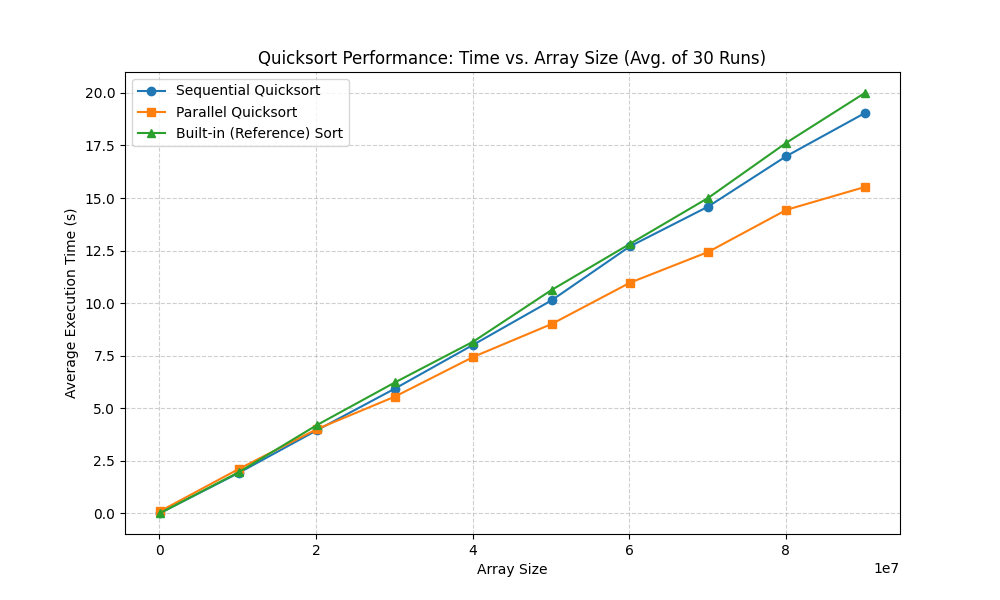
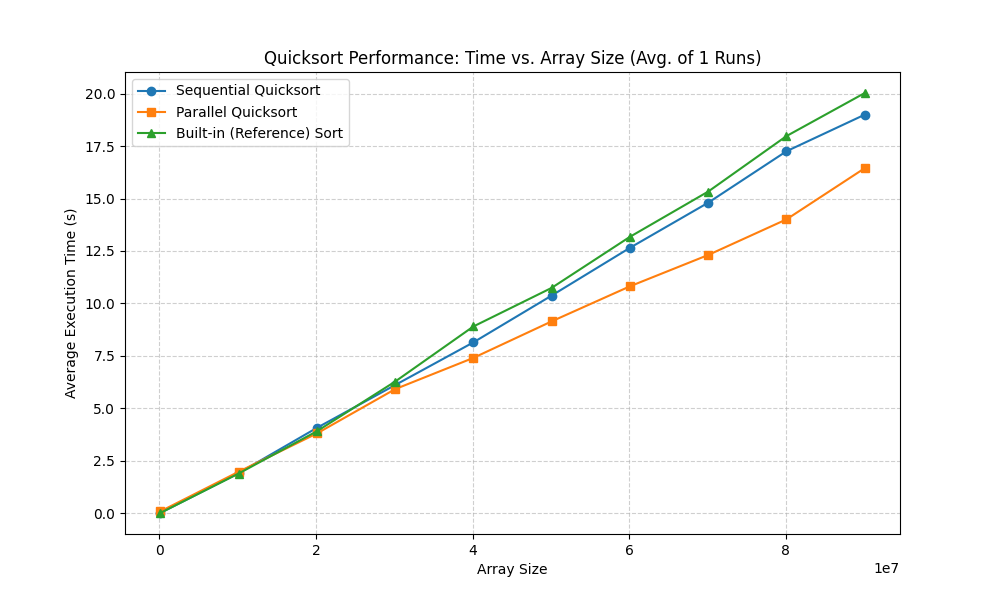
Rerun

diff --git a/M2R-ParallelQuicksort/test/plot.py b/M2R-ParallelQuicksort/test/plot.py
@@ -14,6 +14,7 @@ def plot_results(filename):
         df['size'] = pd.to_numeric(df['size'])
 
         avg_times = df.groupby('size')[['sequential_time', 'parallel_time', 'builtin_time']].mean()
+        NUM_REPETITIONS = df.groupby('size').size().iloc[0]
 
         plt.figure(figsize=(10, 6))
 
@@ -24,12 +25,9 @@ def plot_results(filename):
         plt.plot(array_sizes, avg_times['parallel_time'], 's-', label='Parallel Quicksort')
         plt.plot(array_sizes, avg_times['builtin_time'], '^-', label='Built-in (Reference) Sort')
 
-        # plt.plot(avg_times.index, avg_times['sequential_time'], marker='o', label='Sequential Quicksort')
-        # plt.plot(avg_times.index, avg_times['parallel_time'], marker='s', label='Parallel Quicksort')
-        # plt.plot(avg_times.index, avg_times['builtin_time'], marker='^', label='Built-in (Reference) Sort')
-
         # Formatting
-        plt.title('Quicksort Performance: Time vs. Array Size (Avg. of 30 Runs)')
+        title_string = f'Quicksort Performance: Time vs. Array Size (Avg. of {NUM_REPETITIONS} Runs)'
+        plt.title(title_string)
         plt.xlabel('Array Size')
         plt.ylabel('Average Execution Time (s)')
 

diff --git a/M2R-ParallelQuicksort/test/run_experiments.py b/M2R-ParallelQuicksort/test/run_experiments.py
@@ -8,10 +8,10 @@ from run_quicksort import execute_quicksort, get_times
 from plot import plot_results
 
 
-NUM_REPETITIONS = 30
+NUM_REPETITIONS = 1
 
-#ARRAY_SIZES = [str(i) for i in range(100000, 100000001, 10000000)]
-ARRAY_SIZES = [str(i) for i in range(100000, 25000001, 2500000)]
+ARRAY_SIZES = [str(i) for i in range(100000, 100000001, 10000000)]
+#ARRAY_SIZES = [str(i) for i in range(100000, 25000001, 2500000)]
 
 
 def save_results_to_csv(results_data, filename):
